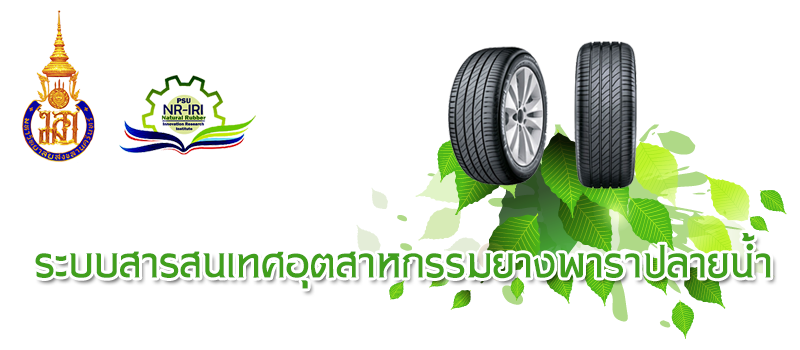
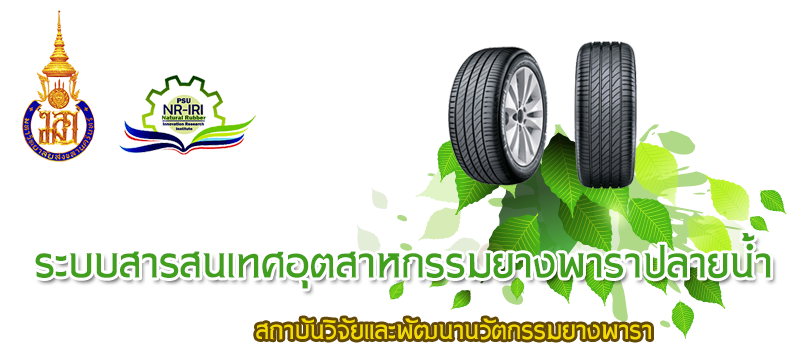
udate
cover and km view

Changed region(s): [[0.3125, 0.8857, 0.8438, 1.0]]

diff --git a/application/controllers/guest.php b/application/controllers/guest.php
@@ -10,21 +10,40 @@ class Guest extends CI_Controller {
 		$this->template->add_css($this->load->view('guest/css/slide-intro.css',null,TRUE),'embed',TRUE);
 		//$this->template->write('band_name','',TRUE);
 		$this->template->write('band_name','<img class="ridm-logo" src="'.base_url('images/ridm-logo.png').'">',TRUE);
+		$this->template->write_view('header','guest/slide-intro');
 	}
 
 	public function index()
 	{
 
-		
-		$this->template->write_view('header','guest/slide-intro');
-		//$data['km_category']=$this->Web->get_category_all();
-		$data['inside']=$this->load->view('guest/home_block',null,TRUE);
+		$data['km']=$this->load->view('guest/km-category-list',array('km_category'=>$this->Web->get_category_all()),TRUE);
+		$data['inside']=$this->load->view('guest/home_block',$data,TRUE);
 		$this->template->write_view('content','guest/content',$data);
 		$this->template->render();
 	}
-	function km($action=null)
+	function km($action=null,$id=null)
 	{
-		$this->template->write_view('header','guest/header_km');
+		$data['inside']=$this->load->view('guest/nav',null,TRUE);
+		$this->template->write_view('content','guest/content',$data);
+		switch ($action) {
+			case 'category':
+				$data['category_all']=$this->Web->get_category_all();
+				$by_array=array('web_contents.cat_id'=>$id);
+				$data['category']=$this->Web->get_articles_by($by_array);
+				$data['inside']=$this->load->view('guest/km-category',$data,TRUE);
+				$this->template->write_view('content','guest/content',$data);
+				break;
+			case 'article':
+				$data['category_all']=$this->Web->get_category_all();
+				$data['article']=$this->Web->get_article_by_id($id);
+				$data['inside']=$this->load->view('guest/km-article',$data,TRUE);
+				$this->template->write_view('content','guest/content',$data);
+
+				break;
+			default:
+				# code...
+				break;
+		}
 		$this->template->render();
 	}
 }

diff --git a/application/views/guest/home_block.php b/application/views/guest/home_block.php
@@ -1,23 +1,23 @@
-<div class="col-md-6">
-	<div class="box box-info">
-	 <div class="box-header"><h4>ผู้สนับสนุน</h4></div>
+<div class="col-md-9">
+	<div class="box box-success">
+	 <div class="box-header bg-warning"><h4 class="text-primary"><i class="fa fa-fw fa-square"></i>การจัดการความรู้ของอุตสาหกรรมยางพาราปลายน้ำ</h4></div>
 	 <div class="box-body">
-	 	<div class="col-md-3 col-xs-4">
-	 		<img class="img-responsive" src="<?=base_url('images/nr_logo.png')?>">
-	 	</div>
-	 	<div class="col-md-3 col-xs-3">
-	 		<h3>PSU</h3>
-	 	</div>
+	 		<img class="img-responsive" src="<?=base_url('images/cover/km-cover.png')?>">
+	 	
+	 		<?php if(!empty($km)):?>
+	 		 <?=$km?>
+	 		<?php endif;?>
+	 	
 
 	 </div>
 	</div>
 </div>
 
-<div class="col-md-6">
-	<div class="box">
-	 <div class="box-header"><h4>ผู้ให้บริการ</h4></div>
+<div class="col-md-3">
+	<div class="box box-success">
+	 <div class="box-header bg-warning"><h4 class="text-primary"><i class="fa fa-fw fa-link"></i>เว็บลิงค์</h4></div>
 	 <div class="box-body">
-	 	sdfds
+	 	<a href="http://www.nr-iri.psu.ac.th" target="_blank">สถาบันวิจัยและพัฒนานวัตกรรมยางพารา</a>
 
 	 </div>
 	</div>

diff --git a/application/views/guest/km-category.php b/application/views/guest/km-category.php
@@ -1,0 +1,26 @@
+<?php if(!empty($category)):?>
+<div class="box box-success">
+<div class="box-header"><img height="120" src="<?=base_url('images/cover/km-cover.png')?>"></div>
+<div class="box-footer">
+
+<!-- Single button -->
+<div class="btn-group">
+  <button type="button" class="btn btn-primary dropdown-toggle" data-toggle="dropdown" aria-haspopup="true" aria-expanded="false">
+    เลือกหมวดหมู่ <span class="caret"></span>
+  </button>
+  <ul class="dropdown-menu">
+  <?php foreach($category_all as $item):?>
+    <li><a href="<?=base_url('guest/km/category/'.$item->id)?>"><?=$item->category_name?></a></li>
+   <?php endforeach;?>
+  </ul>
+</div>
+
+<h3 class="text-success">หมวดหมู่: <?=$category[0]->category_name?></h3>
+	<ul class="list-group">
+	<?php foreach($category as $item):?>
+		<li class="list-group-item"><a href="<?=base_url('guest/km/article/'.$item->id)?>"><i class="fa fa-fw fa-chevron-circle-right "></i><?=$item->content_name?></a></li>
+	<?php endforeach;?>
+	</ul>
+</div>
+</div>
+<?php endif;?>

diff --git a/application/views/guest/km-article.php b/application/views/guest/km-article.php
@@ -1,0 +1,24 @@
+<?php if(!empty($article)):?>
+<div class="box box-success">
+<div class="box-header"><img height="120" src="<?=base_url('images/cover/km-cover.png')?>"></div>
+<div class="box-footer">
+	<!-- Single button -->
+<div class="btn-group">
+  <button type="button" class="btn btn-primary dropdown-toggle" data-toggle="dropdown" aria-haspopup="true" aria-expanded="false">
+    เลือกหมวดหมู่ <span class="caret"></span>
+  </button>
+  <ul class="dropdown-menu">
+  <?php foreach($category_all as $item):?>
+    <li><a href="<?=base_url('guest/km/category/'.$item->id)?>"><?=$item->category_name?></a></li>
+   <?php endforeach;?>
+  </ul>
+</div>
+</div>
+<div class="box-footer">
+	<h3 class="text-success">เรื่อง : <?=$article->content_name?></h3>
+	<div>
+		<?=$article->content_detail?>
+	</div>
+</div>
+</div>
+<?php endif;?>

diff --git a/application/modules/web/models/web_model.php b/application/modules/web/models/web_model.php
@@ -31,6 +31,15 @@ class web_model extends CI_Model
 		return $this->db->get()->result();
 		//return $result->result();
 	}
+	function get_articles_by($by_array=null)
+	{
+		$this->db->select('web_contents.*,web_categories.category_name');
+		$this->db->from('web_contents');
+		$this->db->join('web_categories','web_contents.cat_id = web_categories.id');
+		$this->db->where($by_array);
+		return $this->db->get()->result();
+		//return $result->result();
+	}
 	function post_category()
 	{
 		return $this->db->insert('web_categories',$this->data);

diff --git a/application/views/guest/km-category-list.php b/application/views/guest/km-category-list.php
@@ -1,0 +1,19 @@
+<div class="box-footer">
+<table class="table">
+<thead>
+	<th>#</th>
+	<th>หมวดหมู่</th>
+	<th>บทความ</th>
+</thead>
+<tbody>
+<?php $num=1;if(!empty($km_category)) foreach($km_category as $item): ?>
+      <tr>
+      <td><?=$num?></td>
+      <td><a href="<?=base_url('guest/km/category/'.$item->id)?>"><?=$item->category_name?></a></td>
+      <td class="text-center"><span class="badge bg-green">10</span></td>
+      </tr>
+
+<?php $num++;endforeach;?>
+</tbody>
+</table>
+</div>

diff --git a/application/views/guest/nav.php b/application/views/guest/nav.php
@@ -1,0 +1,1 @@
+<h4><a href="<?=base_url()?>"><i class="fa fa-home fa-fw"></i>Home</a><i class="fa fa-fw fa-angle-double-right"></i><span>KM</span></h4>
